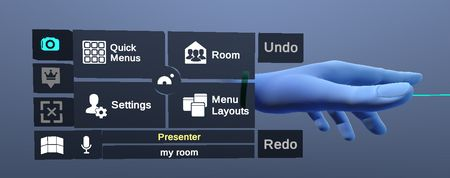
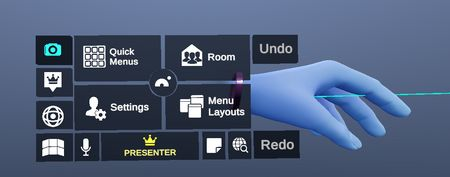
more 1.23 updates and added assets

Changed region(s): [[0.0622, 0.1412, 1.0, 0.9322]]

diff --git a/docs/.vuepress/config.js b/docs/.vuepress/config.js
@@ -61,7 +61,8 @@ module.exports = {
         children: [
           '/home.nanome.ai/accounttiers',
           '/home.nanome.ai/invoice',
-          '/home.nanome.ai/licenses'
+          '/home.nanome.ai/licenses',
+          '/home.nanome.ai/meetings'
         ]
       },
       {

diff --git a/docs/.vuepress/components/LandingPage.vue b/docs/.vuepress/components/LandingPage.vue
@@ -65,7 +65,7 @@
       </a> -->
       <img
         class="headsets"
-        src="/assets/original/gettingStarted-page/HeadsetsCombined1.png"
+        src="/assets/original/gettingStarted-page/Headsets4.png"
         alt="headsets"
       />
     </div>

diff --git a/docs/home.nanome.ai/meetings.md b/docs/home.nanome.ai/meetings.md
@@ -1,0 +1,35 @@
+---
+title: Create Meetings
+---
+
+# How to create a meeting link
+
+## Step 1: Log into your account at https://home.nanome.ai
+
+<vimg src="nanome-page/account-login-page.png" />
+
+## Step 2: On the dashboard, navigate to the left-hand side and click on “Meetings”
+
+<vimg src="nanome-page/dashboard-go-to-meetings.png" />
+
+## Step 3: From here, you can schedule a meeting for later ("Meetings") or you can set up a meeting link ("Quick Link").
+
+<vimg src="nanome-page/meetings-section.png" />
+
+In the appropriate section, click "Create One" to create a meeting.
+
+Alternatively, you can click on "Schedule a Meeting" in the upper right corner of the dashboard to create a meeting.
+
+<vimg src="nanome-page/dashboard-schedule-meetings-button.png" />
+
+### Scheduled Meetings
+
+<vimg src="nanome-page/create-scheduled-meeting.png" />
+
+You can schedule a meeting with a specific date and time. Include details such as the room name (and optional password), event title, and description.
+
+### Quick Link
+
+<vimg src="nanome-page/create-quick-link.png" />
+
+This will generate a link which you can send to others to join your Nanome session now (or for as long as the link is active).

diff --git a/docs/navigation/menus.md b/docs/navigation/menus.md
@@ -52,7 +52,7 @@ The Electron Density tab shows the configuration of viewing the Electron Density
 
 ### Alternative Conformations Menu
 
-<vimg src="features-page/hierarchy-residue-conformations.png" />
+<vimg src="navigating-page/hierarchy-residue-conformations.png" />
 <vimg src="navigating-page/residue-conformations.png" />
 
 This menu specifies residue conformations.

diff --git a/docs/navigation/wristmenu.md b/docs/navigation/wristmenu.md
@@ -4,7 +4,7 @@ title: Wrist Menu
 
 # Wrist Menu
 
-<vimg src="navigating-page/wrist_menu_updated2.png" />
+<vimg src="navigating-page/wrist_menu_updated.png" />
 
 Wrist menu contains access to features independent from the content of the workspace such as quick menu access, room management.
 
